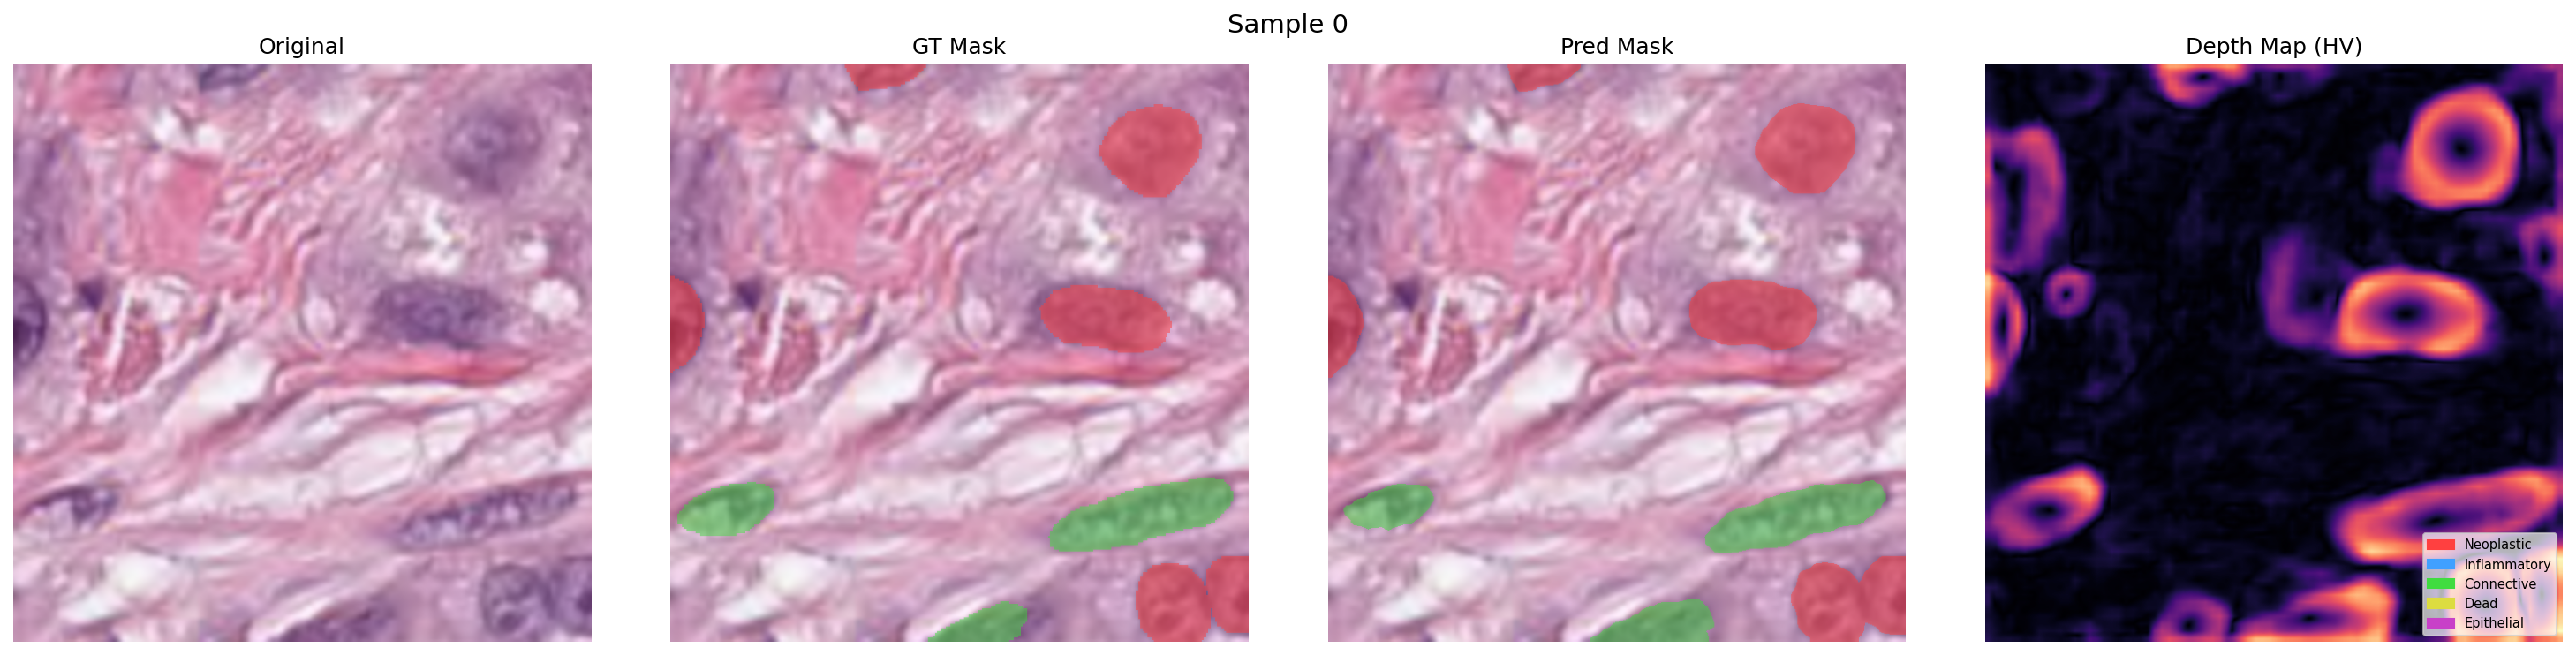
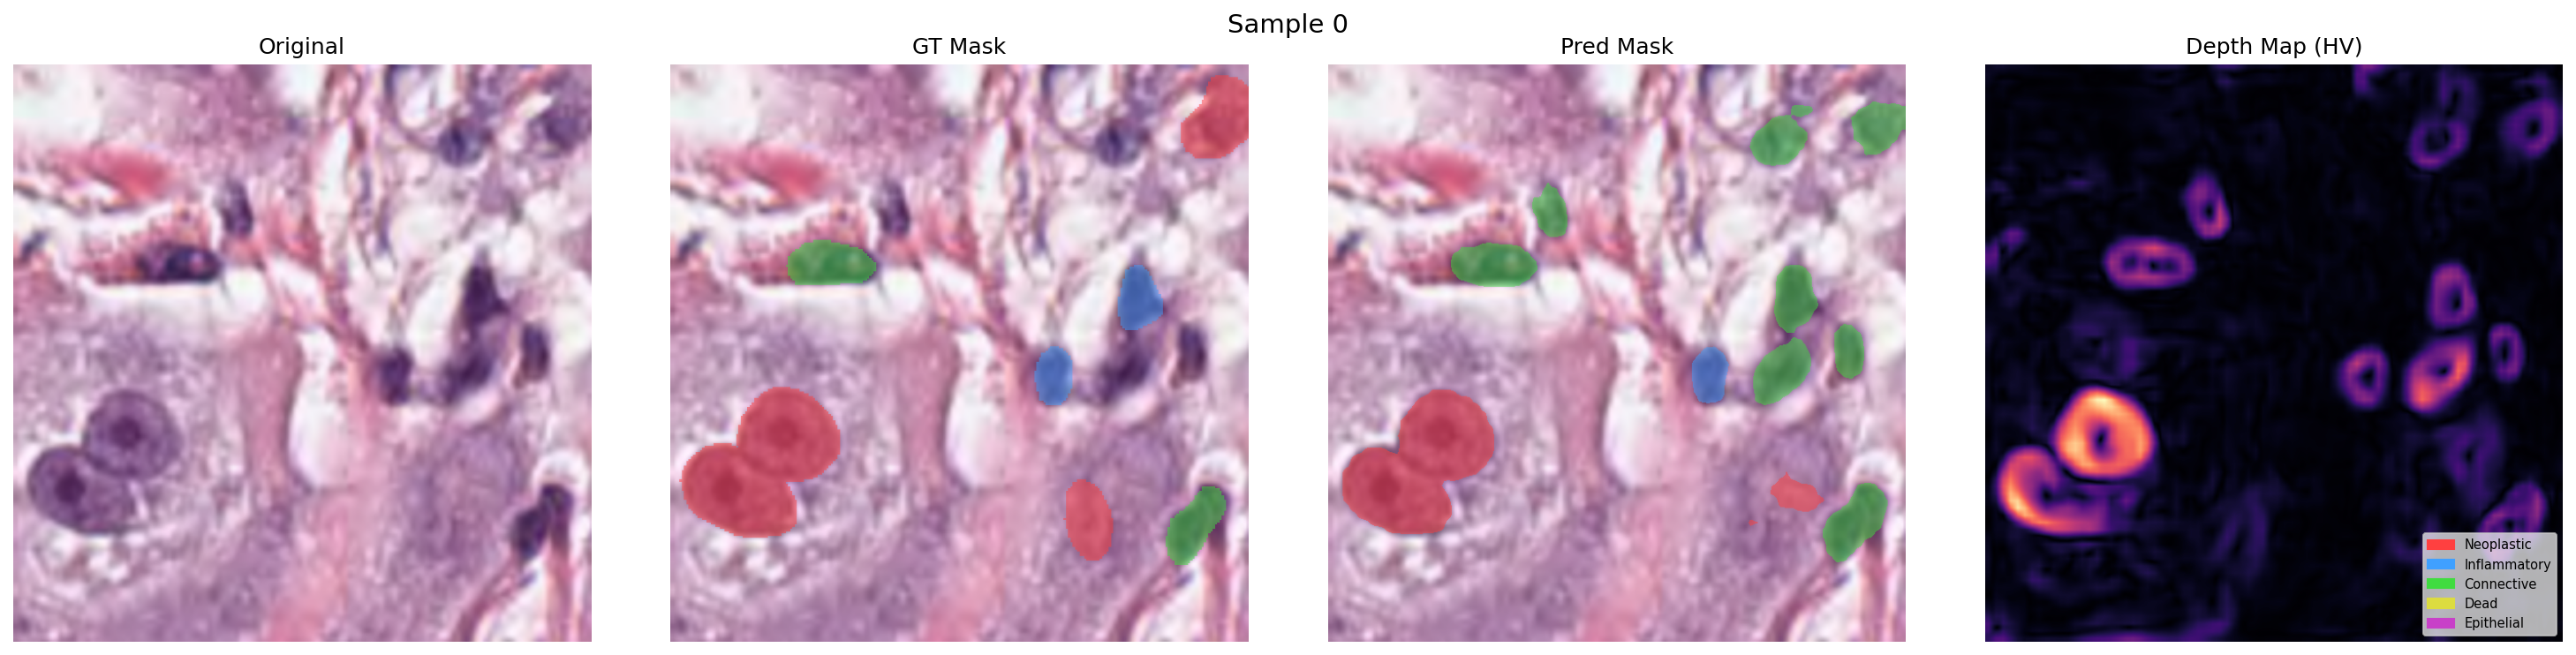
fix

diff --git a/utils/post_process.py b/utils/post_process.py
@@ -5,61 +5,103 @@ from scipy.ndimage import measurements
 from skimage.segmentation import watershed
 from skimage.morphology import remove_small_objects
 
-def process_instance(np_map, hv_map, min_area=10):
+# utils/post_process.py
+
+from skimage.morphology import remove_small_holes  # 添加导入
+
+def process_instance(np_map, hv_map, min_area=10, np_thresh=0.6, min_distance=8, peak_thresh=0.4):
     """
-    使用 NP + HV 生成实例分割图
+    实例分割（可调参数版本）
     
     Args:
-        np_map: (H, W) 核概率图
-        hv_map: (2, H, W) 水平/垂直距离图
-        min_area: 最小核面积
-    
-    Returns:
-        inst_map: (H, W) 实例ID图，0为背景
+        np_map: (H,W) 核概率图
+        hv_map: (2,H,W) HV距离图
+        min_area: 最小细胞面积（增大减少细胞）
+        np_thresh: NP二值化阈值（增大减少细胞）
+        min_distance: 种子点最小间距（增大减少细胞）
+        peak_thresh: 种子点能量阈值（增大减少细胞）
     """
-    # 1. 二值化NP
-    np_binary = (np_map > 0.5).astype(np.uint8)
+    # 1. 二值化
+    np_binary = (np_map > np_thresh).astype(np.uint8)
     
-    # 2. 计算能量图（距离到质心的负值）
+    # 2. 能量图
     h_dir = hv_map[0]
     v_dir = hv_map[1]
     energy = np.sqrt(h_dir**2 + v_dir**2)
-    energy = 1.0 - energy  # 质心处能量最高
+    energy = 1.0 - energy
     
-    # 3. 找种子点（局部极大值）
+    # 3. 找种子点
     from skimage.feature import peak_local_max
     from skimage.morphology import dilation, disk
     
-    # 平滑能量图
     energy_smooth = cv2.GaussianBlur(energy, (5, 5), 0)
     
-    # 找局部极大值作为种子
     coordinates = peak_local_max(
         energy_smooth,
-        min_distance=5,
-        threshold_abs=0.3,
+        min_distance=min_distance,
+        threshold_abs=peak_thresh,
         exclude_border=False
     )
     
-    # 生成marker
     markers = np.zeros_like(np_binary, dtype=np.int32)
     for idx, (y, x) in enumerate(coordinates, start=1):
-        if np_binary[y, x] > 0:  # 只在前景区域
+        if np_binary[y, x] > 0:
             markers[y, x] = idx
     
-    # 膨胀marker避免过分割
     markers = dilation(markers, disk(2))
     
-    # 4. 分水岭分割
+    # 4. 分水岭
     inst_map = watershed(-energy, markers, mask=np_binary)
     
-    # 5. 移除小对象
-    inst_map = remove_small_objects(inst_map, min_size=min_area)
+    # 5. 移除小对象（修复警告）
+    inst_map = remove_small_holes(
+        remove_small_holes(inst_map.astype(bool), area_threshold=min_area),
+        area_threshold=min_area
+    ).astype(np.int32) * inst_map
+    inst_map = np.where(
+        np.isin(inst_map, [i for i in np.unique(inst_map) if (inst_map == i).sum() >= min_area]),
+        inst_map, 0
+    )
     
     # 重新编号
     inst_map = measurements.label(inst_map > 0)[0]
     
     return inst_map
+
+def batch_postprocess(np_maps, hv_maps, nc_maps, np_thresh=0.6, energy_thresh=0.4, 
+                      min_area=30, min_distance=8, peak_thresh=0.4):
+    """批量后处理（可调参数）"""
+    B = np_maps.shape[0]
+    np_maps = np_maps.cpu().numpy()[:, 0]
+    hv_maps = hv_maps.cpu().numpy()
+    nc_maps = nc_maps.cpu().numpy()
+    
+    nc_maps = np.exp(nc_maps) / np.exp(nc_maps).sum(axis=1, keepdims=True)
+    
+    inst_maps = []
+    cls_dicts = []
+    
+    for b in range(B):
+        inst_map = process_instance(
+            np_maps[b], hv_maps[b], 
+            min_area=min_area,
+            np_thresh=np_thresh,
+            min_distance=min_distance,
+            peak_thresh=peak_thresh
+        )
+        inst_maps.append(inst_map)
+        
+        nc_pred = nc_maps[b]
+        cls_dict = {}
+        for inst_id in np.unique(inst_map):
+            if inst_id == 0:
+                continue
+            mask = inst_map == inst_id
+            inst_probs = nc_pred[:, mask].mean(axis=1)
+            cls_dict[int(inst_id)] = int(inst_probs.argmax())
+        cls_dicts.append(cls_dict)
+    
+    return inst_maps, cls_dicts
 
 def classify_instances(inst_map, nc_map):
     """
@@ -150,3 +192,4 @@ def post_process_hovernet(outputs, min_area=10):
         'np_map': np_map,
         'hv_map': hv_map
     }
+

diff --git a/train.py b/train.py
@@ -35,7 +35,7 @@ CSV_FIELDS = [
 def get_args():
     p = argparse.ArgumentParser()
     p.add_argument('--data_root',default='/home/lwy/dataset/PanNuke/processed')
-    p.add_argument('--val_fold',    default='Fold2')
+    p.add_argument('--val_fold',    default='Fold3')
     p.add_argument('--epochs',      type=int,   default=80)
     p.add_argument('--batch_size',  type=int,   default=32)
     p.add_argument('--lr',          type=float, default=1e-4)
@@ -44,7 +44,7 @@ def get_args():
     p.add_argument('--num_classes', type=int,   default=5)
     p.add_argument('--save_dir',    default='./runs')
     p.add_argument('--resume',      default='')
-    p.add_argument('--num_workers', type=int,   default=8)
+    p.add_argument('--num_workers', type=int,   default=16)
     p.add_argument('--patience',    type=int,   default=15)
     return p.parse_args()
 

diff --git a/predict_visual.py b/predict_visual.py
@@ -194,7 +194,7 @@ def main():
     device = torch.device('cuda' if torch.cuda.is_available() else 'cpu')
 
     model = HoverSegModel(base_ch=args.base_ch, num_classes=args.num_classes).to(device)
-    ckpt  = torch.load(args.ckpt, map_location=device)
+    ckpt  = torch.load(args.ckpt, map_location=device, weights_only= False)
     model.load_state_dict(ckpt['model_state'])
     print(f"[Loaded] epoch={ckpt.get('epoch', '?')}")
 